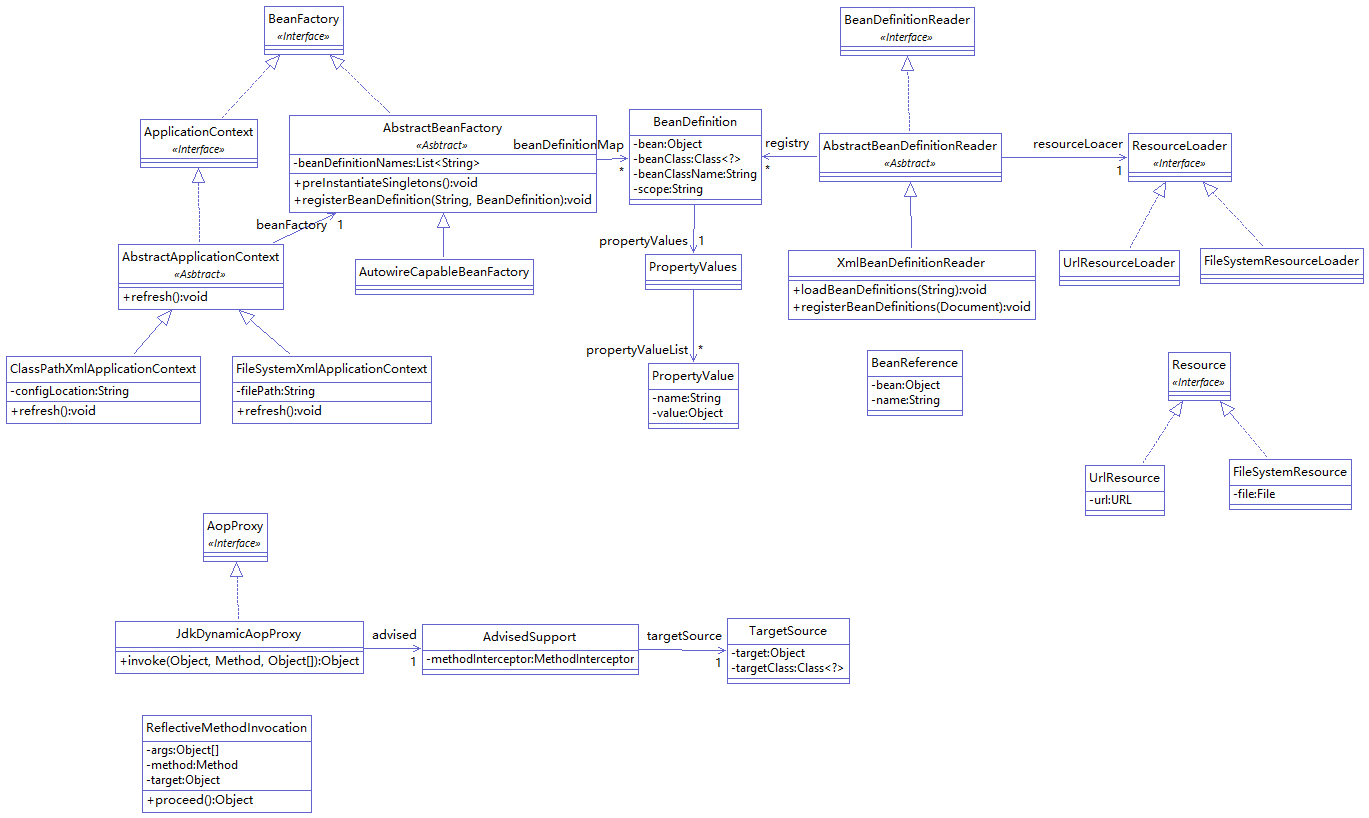
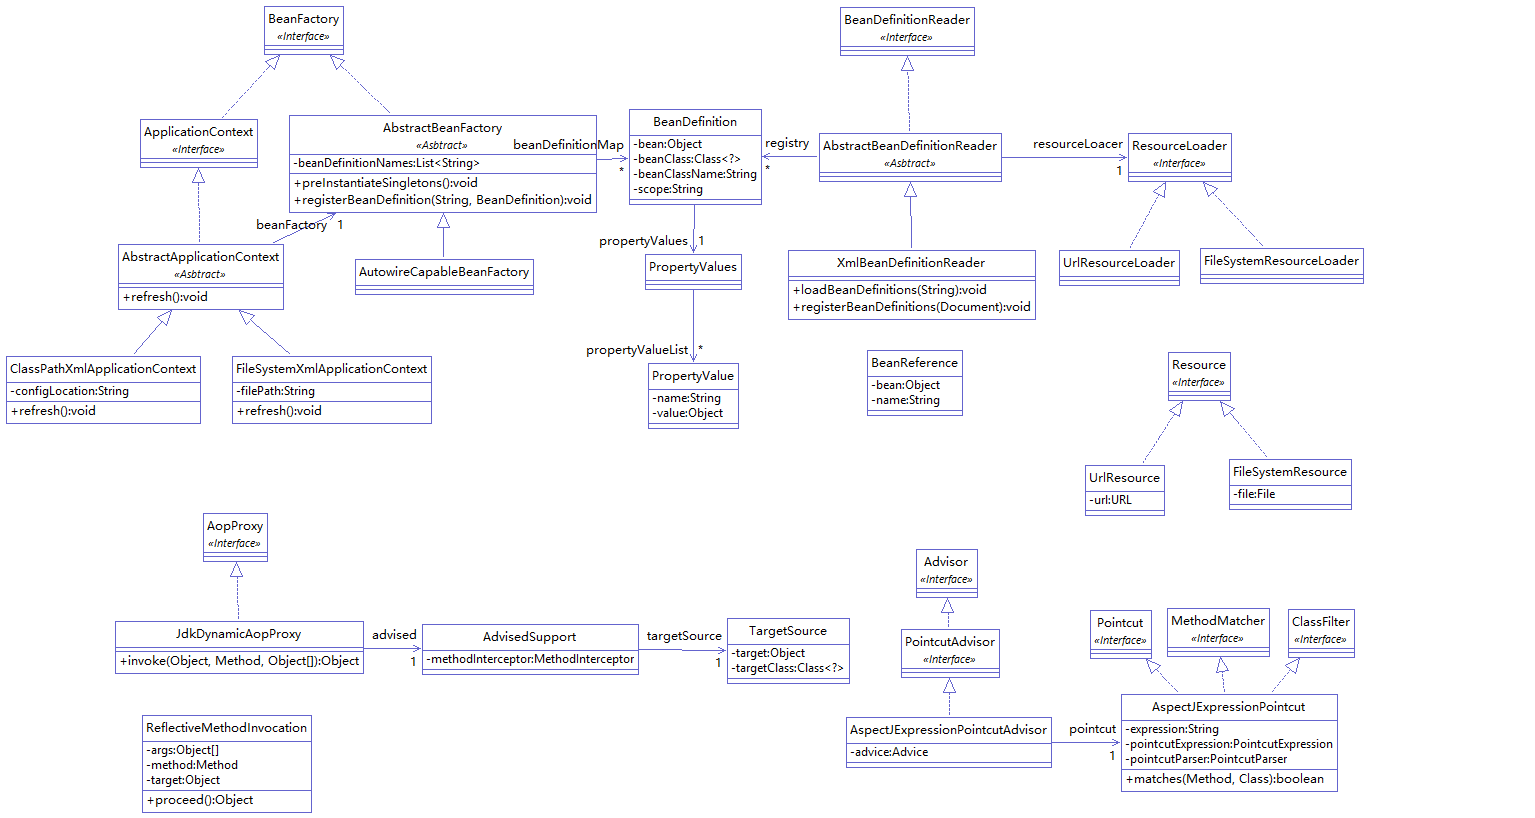
使用AspectJ管理切面

diff --git a/src/main/java/com/cn/aop/AspectJExpressionPointcut.java b/src/main/java/com/cn/aop/AspectJExpressionPointcut.java
@@ -1,0 +1,105 @@
+package com.cn.aop;
+
+import org.aspectj.weaver.tools.PointcutExpression;
+import org.aspectj.weaver.tools.PointcutParser;
+import org.aspectj.weaver.tools.PointcutPrimitive;
+import org.aspectj.weaver.tools.ShadowMatch;
+
+import java.lang.reflect.Method;
+import java.util.HashSet;
+import java.util.Set;
+
+public class AspectJExpressionPointcut implements Pointcut, ClassFilter, MethodMatcher {
+
+	private PointcutParser pointcutParser;//切点解析器
+
+	private String expression;	//用户定义的切点表达式
+
+	private PointcutExpression pointcutExpression;//代表一个切入点表达式，并提供便利的方法来确定是否匹配到指定的连接点
+
+	/**
+	 * 被支持的基本单元
+	 */
+	private static final Set<PointcutPrimitive> DEFAULT_SUPPORTED_PRIMITIVES = new HashSet<PointcutPrimitive>();
+
+	static {
+		DEFAULT_SUPPORTED_PRIMITIVES.add(PointcutPrimitive.EXECUTION);
+		DEFAULT_SUPPORTED_PRIMITIVES.add(PointcutPrimitive.ARGS);
+		DEFAULT_SUPPORTED_PRIMITIVES.add(PointcutPrimitive.REFERENCE);
+		DEFAULT_SUPPORTED_PRIMITIVES.add(PointcutPrimitive.THIS);
+		DEFAULT_SUPPORTED_PRIMITIVES.add(PointcutPrimitive.TARGET);
+		DEFAULT_SUPPORTED_PRIMITIVES.add(PointcutPrimitive.WITHIN);
+		DEFAULT_SUPPORTED_PRIMITIVES.add(PointcutPrimitive.AT_ANNOTATION);
+		DEFAULT_SUPPORTED_PRIMITIVES.add(PointcutPrimitive.AT_WITHIN);
+		DEFAULT_SUPPORTED_PRIMITIVES.add(PointcutPrimitive.AT_ARGS);
+		DEFAULT_SUPPORTED_PRIMITIVES.add(PointcutPrimitive.AT_TARGET);
+	}
+
+	public AspectJExpressionPointcut() {
+		this(DEFAULT_SUPPORTED_PRIMITIVES);
+	}
+
+	/**
+	 * 获取切点解析器
+	 * @param supportedPrimitives
+	 */
+	public AspectJExpressionPointcut(Set<PointcutPrimitive> supportedPrimitives) {
+		pointcutParser = PointcutParser
+				.getPointcutParserSupportingSpecifiedPrimitivesAndUsingContextClassloaderForResolution(supportedPrimitives);
+	}
+
+	/**
+	 * 检查是否已经匹配了切入点，或者是否已经解析并设置了pointcutExpression
+	 */
+	protected void checkReadyToMatch() {
+		if (pointcutExpression == null) {
+			pointcutExpression = buildPointcutExpression();
+		}
+	}
+
+	/**
+	 * 解析给定的切入点表达式
+	 * @return PointcutExpression
+	 */
+	private PointcutExpression buildPointcutExpression() {
+		return pointcutParser.parsePointcutExpression(expression);
+	}
+
+	/**
+	 * 设置用户定义的切点表达式
+	 * @param expression
+	 */
+	public void setExpression(String expression) {
+		this.expression = expression;
+	}
+
+	public ClassFilter getClassFilter() {
+		return this;
+	}
+
+	public MethodMatcher getMethodMatcher() {
+		return this;
+	}
+
+	/**
+	 * 类匹配
+	 */
+	public boolean matches(Class<?> targetClass) {
+		checkReadyToMatch();
+		return pointcutExpression.couldMatchJoinPointsInType(targetClass);
+	}
+
+	/**
+	 * 方法匹配
+	 */
+	public boolean matches(Method method, Class<?> targetClass) {
+		checkReadyToMatch();
+		ShadowMatch shadowMatch = pointcutExpression.matchesMethodExecution(method);
+		if (shadowMatch.alwaysMatches()) {
+			return true;
+		} else if (shadowMatch.neverMatches()) {
+			return false;
+		}
+		return false;
+	}
+}

diff --git a/src/test/java/com/cn/aop/AspectJExpressionPointcutTest.java b/src/test/java/com/cn/aop/AspectJExpressionPointcutTest.java
@@ -1,0 +1,29 @@
+package com.cn.aop;
+
+import org.junit.Test;
+
+import com.cn.ioc.factory.TestServiceImpl;
+
+import junit.framework.Assert;
+
+public class AspectJExpressionPointcutTest {
+
+	@Test
+	public void testClassFilter(){
+		String expression = "execution (* com.cn.ioc.factory.TestServiceImpl.*(..))";
+		AspectJExpressionPointcut aspectJExpressionPointcut = new AspectJExpressionPointcut();
+		aspectJExpressionPointcut.setExpression(expression);
+		boolean matches = aspectJExpressionPointcut.getClassFilter().matches(TestServiceImpl.class);
+		Assert.assertTrue(matches);
+	}
+	
+	@Test
+	public void testMethodInterceptor() throws NoSuchMethodException, SecurityException{
+		String expression = "execution (* com.cn.ioc.factory.TestServiceImpl.*(..))";
+		AspectJExpressionPointcut aspectJExpressionPointcut = new AspectJExpressionPointcut();
+		aspectJExpressionPointcut.setExpression(expression);
+		boolean matches = aspectJExpressionPointcut.getMethodMatcher().matches(TestServiceImpl.class.getDeclaredMethod("sayHello"), TestServiceImpl.class);
+		Assert.assertTrue(matches);
+	}
+}
+

diff --git a/src/main/java/com/cn/aop/AspectJExpressionPointcutAdvisor.java b/src/main/java/com/cn/aop/AspectJExpressionPointcutAdvisor.java
@@ -1,0 +1,32 @@
+package com.cn.aop;
+
+import org.aopalliance.aop.Advice;
+
+public class AspectJExpressionPointcutAdvisor implements PointcutAdvisor {
+
+	/**
+	 * 语法分析,获取切点，即配置的的类，方法（切入点）
+	 */
+    private AspectJExpressionPointcut pointcut = new AspectJExpressionPointcut();
+
+    /**
+     * 通知
+     */
+    private Advice advice;
+
+    public void setAdvice(Advice advice) {
+        this.advice = advice;
+    }
+
+    public void setExpression(String expression) {
+        this.pointcut.setExpression(expression);
+    }
+
+	public Advice getAdvice() {
+		return advice;
+	}
+
+	public Pointcut getPointcut() {
+		return pointcut;
+	}
+}

diff --git a/src/main/java/com/cn/aop/Pointcut.java b/src/main/java/com/cn/aop/Pointcut.java
@@ -1,0 +1,21 @@
+package com.cn.aop;
+
+/**
+ * 切入点接口
+ * @author lvbiao
+ *
+ */
+public interface Pointcut {
+	
+	/**
+	 * 获取匹配到的类
+	 * @return ClassFilter
+	 */
+	ClassFilter getClassFilter();
+
+	/**
+	 * 获取匹配到的方法
+	 * @return MethodMatcher
+	 */
+	MethodMatcher getMethodMatcher();
+}

diff --git a/src/main/java/com/cn/aop/MethodMatcher.java b/src/main/java/com/cn/aop/MethodMatcher.java
@@ -1,0 +1,20 @@
+package com.cn.aop;
+
+import java.lang.reflect.Method;
+
+/**
+ * 方法匹配接口
+ * @author lvbiao
+ *
+ */
+public interface MethodMatcher {
+
+	/**
+	 * 匹配方法
+	 * @param method
+	 * @param targetClass
+	 * @return
+	 */
+	 boolean matches(Method method, Class<?> targetClass);
+	
+}

diff --git a/src/main/java/com/cn/aop/ClassFilter.java b/src/main/java/com/cn/aop/ClassFilter.java
@@ -1,0 +1,17 @@
+package com.cn.aop;
+
+/**
+ * 类匹配接口
+ * @author lvbiao
+ *
+ */
+public interface ClassFilter {
+
+	/**
+	 * 匹配类
+	 * @param targetClass
+	 * @return
+	 */
+	boolean matches(Class<?> targetClass);
+	
+}

diff --git a/src/main/java/com/cn/aop/Advisor.java b/src/main/java/com/cn/aop/Advisor.java
@@ -1,0 +1,12 @@
+package com.cn.aop;
+
+import org.aopalliance.aop.Advice;
+
+/**
+ * 通知接口
+ * @author lvbiao
+ *
+ */
+public interface Advisor {
+	Advice getAdvice();
+}

diff --git a/src/main/java/com/cn/aop/PointcutAdvisor.java b/src/main/java/com/cn/aop/PointcutAdvisor.java
@@ -1,0 +1,7 @@
+package com.cn.aop;
+
+public interface PointcutAdvisor extends Advisor{
+	
+	Pointcut getPointcut();
+	
+}
